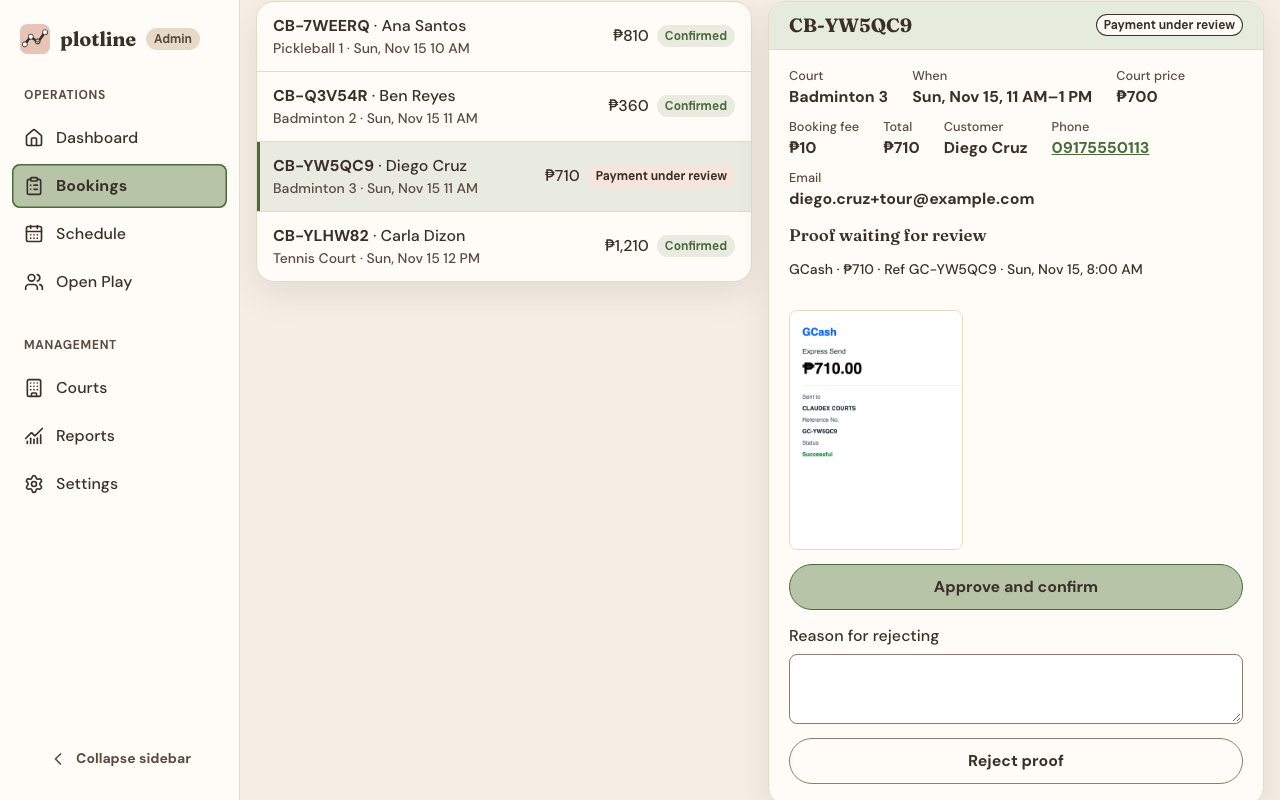
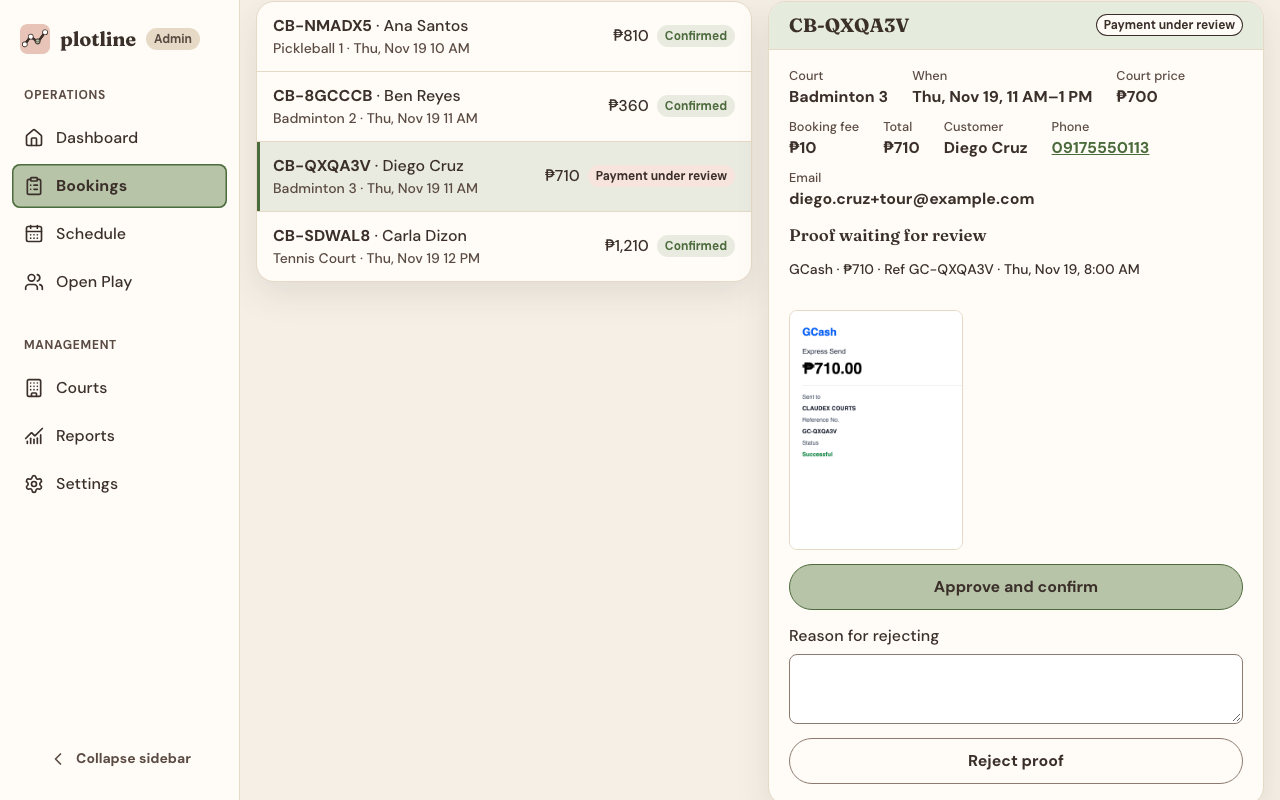
chore(assets): refresh admin tour screenshots from court-booking-system
Copied by court-booking-system's npm run tour:shots (M29 close-out):
Open Play now shows Run this as a stack, and the demo dates moved on.
Also notes engine.t84.roundrobin under T1.15.

diff --git a/TASKS.md b/TASKS.md
@@ -462,7 +462,8 @@ One-liner: players open a stack from a link or QR on their own phones and the bo
   - Why (/retro M6, approved by the user 2026-11-19): its cases sit near Vitest's 5 s limit; with the device matrix running alongside, 10 timed out in T6.9's Stop hook and the T6.9 reviewer saw 14. Alone, all 152 pass (about 65 s). No engine code changed: a slow test, not a bug in the engine.
   - Do: make "Skill groups over many games (T8.4…)" fast enough to pass under the parallel matrix, by speeding up the engine's search or splitting the sweep into smaller cases, without removing any configuration, level set or assertion.
   - Depends: none
-  - Files: `src/features/stack/engine.ts` (if the search is the cause), `src/features/stack/engine.t84.test.ts`
+  - Also (2026-11-19): `engine.t84.roundrobin.test.ts` timed out once in a full gate run with nothing else running (1 of 48, about 72 s for the file), then passed on the re-run; include it.
+  - Files: `src/features/stack/engine.ts` (if the search is the cause), `src/features/stack/engine.t84.test.ts`, `src/features/stack/engine.t84.roundrobin.test.ts`
   - Acceptance: `npx vitest run src/features/stack/engine.t84.test.ts` passes while `npm run test:e2e` runs at the same time; the same cases and assertions as before; full gate; the reviewer reports no blocking issues.
 
 - [ ] **T1.14 User checks and deploy timing in the plan, by-eye ask before review**
